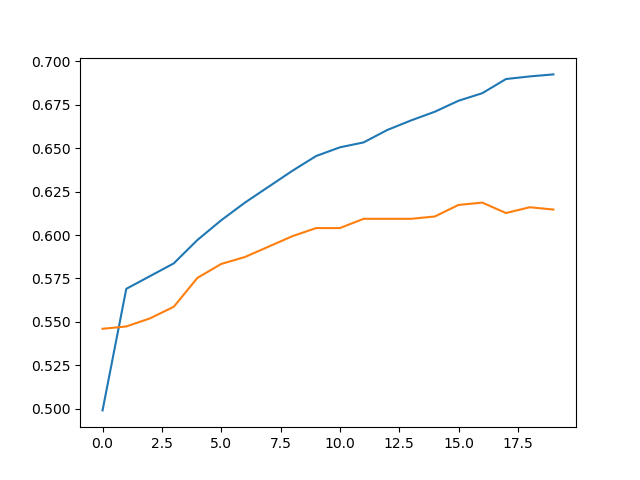
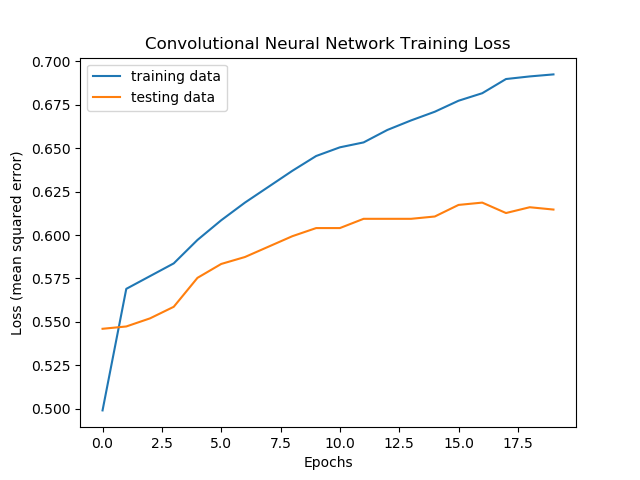
Add gunicorn dependency and training graphs

Changed region(s): [[0.125, 0.0625, 0.7812, 0.2188], [0.0, 0.3125, 0.0312, 0.6875], [0.4688, 0.9375, 0.5625, 0.9688]]

diff --git a/src/plot_data.py b/src/plot_data.py
@@ -6,6 +6,20 @@ with open('data/training_hist.json', 'r') as json_file:
 
 	print(data)
 
-	plt.plot(data["acc"])
-	plt.plot(data["val_acc"])
+	plt.title("Convolutional Neural Network Training Accuracies")
+	plt.plot(data["acc"], label="training data")
+	plt.plot(data["val_acc"], label="testing data")
+	plt.xlabel("Epochs")
+	plt.ylabel("Accuarcy (%)")
+	plt.legend()
+	plt.savefig("data/accuracy_performance.png")
+
+	plt.close()
+
+	plt.title("Convolutional Neural Network Training Loss")
+	plt.plot(data["acc"], label="training data")
+	plt.plot(data["val_acc"], label="testing data")
+	plt.xlabel("Epochs")
+	plt.ylabel("Loss (mean squared error)")
+	plt.legend()
 	plt.savefig("data/loss_performance.png")
